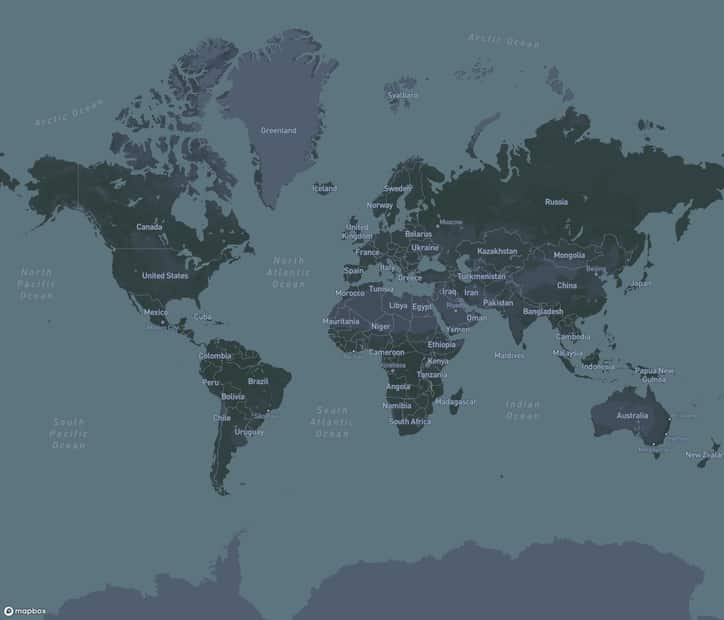
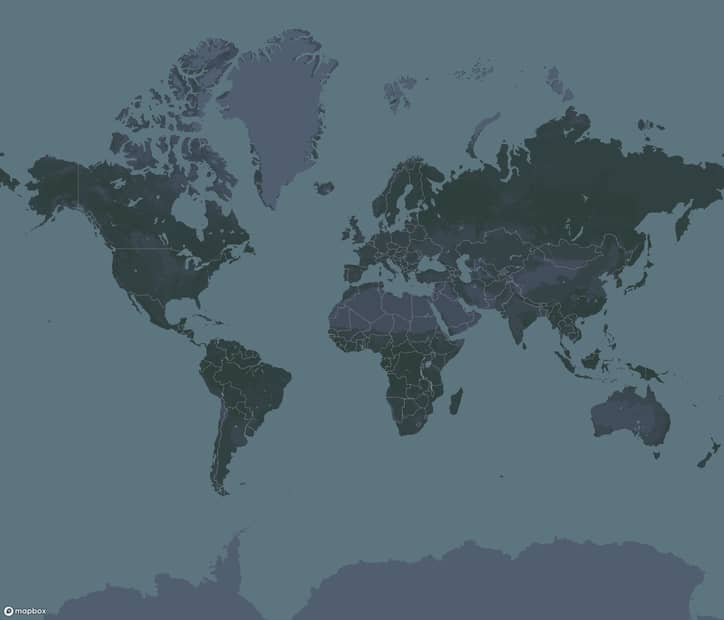
Liquid-glass loading state instead of a stretched low-res map
The loading picture was a half-resolution poster scaled up 2x, which
read as a mushy copy of the map. It is now:

- A label-free poster at twice the resolution (blurred place names only
  showed as grey smudges), under a light 2.5px blur, so it reads as the
  real map slightly out of focus
- A clear glass pane over it: bright rim highlights and a gentle
  specular sweep, no frost grain
- A centred liquid-glass "Loading map" pill: backdrop blur plus an SVG
  displacement filter that bends the map behind it (browsers without
  SVG backdrop filters get the blur only), with rim highlights and a
  gently bobbing plane
- On load the live map fades in beneath the glass, then the glass and
  pill lift; both end hidden, so popups and controls stay clickable

The map box moves into a .map-wrap wrapper that carries its margins and
the pill. Time to map-ready is unchanged (~1.5s in the throttled test).

Claude-Session: https://claude.ai/code/session_014WmuffgPwPaafD4mPaaY6j

diff --git a/index.html b/index.html
@@ -84,19 +84,111 @@
            map at any box size. Regenerate the images if the opening camera or
            the map style changes. */
         #map {
-            background: #75cff0 url(map-poster-light.jpg) center / 1448px 1240px no-repeat;
+            background: #75cff0;
+            --poster: url(map-poster-light.jpg);
         }
+        /* The poster, blurred. It overhangs the box by 60px on every side so
+           the blur has real image to sample at the edges (the map clips it to
+           its rounded corners); the overhang is symmetric, so the centre, and
+           with it the alignment, is unchanged. */
+        #map::before {
+            content: '';
+            position: absolute;
+            inset: -60px;
+            background: var(--poster) center / 1448px 1240px no-repeat;
+            filter: blur(2.5px) saturate(1.15);
+            pointer-events: none;
+            transition: visibility 0s linear 1s;
+        }
+        #map.map-ready::before { visibility: hidden; }
         #map .mapboxgl-canvas {
             opacity: 0;
-            transition: opacity .45s ease;
+            transition: opacity .5s ease;
         }
         #map.map-ready .mapboxgl-canvas { opacity: 1; }
+
+        /* Liquid glass over the poster while the map loads: clear rather than
+           frosted — no grain, vivid colour showing through — with a bright rim
+           where light catches the edge of the pane, and a slow specular sweep.
+           When the live map is ready it fades in underneath first, then the
+           glass lifts, so the map comes into focus instead of popping in. */
+        #map::after {
+            content: '';
+            position: absolute;
+            inset: 0;
+            border-radius: inherit;
+            pointer-events: none;
+            background:
+                linear-gradient(115deg, transparent 38%, rgba(255,255,255,.20) 49%, rgba(255,255,255,.05) 54%, transparent 62%) 0 0 / 260% 100% no-repeat,
+                radial-gradient(120% 80% at 12% 0%, rgba(255,255,255,.18), rgba(255,255,255,0) 55%);
+            box-shadow:
+                inset 1.5px 1.5px 0 rgba(255,255,255,.75),
+                inset -1px -1px 0 rgba(255,255,255,.35),
+                inset 0 0 36px rgba(255,255,255,.22);
+            animation: glass-sheen 3.2s cubic-bezier(.45,0,.2,1) infinite;
+            transition: opacity .7s ease .25s, visibility 0s linear 1s;
+        }
+        #map.map-ready::after {
+            opacity: 0;
+            visibility: hidden;
+            animation: none;
+        }
+        @keyframes glass-sheen {
+            from { background-position: 140% 0, 0 0; }
+            to   { background-position: -40% 0, 0 0; }
+        }
+
+        /* The liquid-glass "Loading map" pill. Layers: the refracting backdrop
+           (blur plus an SVG displacement filter, #lg-distort, that bends the
+           map behind it — browsers without SVG backdrop filters just get the
+           blur), a tint, the rim highlights, then the text. */
+        .map-wrap { position: relative; margin-top: -3.4rem; margin-bottom: 0.5rem; }
+        .map-loading {
+            position: absolute;
+            left: 50%;
+            top: 50%;
+            transform: translate(-50%, -50%);
+            display: inline-flex;
+            align-items: center;
+            border-radius: 999px;
+            overflow: hidden;
+            padding: 0.8rem 1.5rem;
+            font-weight: 650;
+            font-size: 0.95rem;
+            letter-spacing: 0.02em;
+            color: #0d2c50;
+            box-shadow: 0 8px 28px rgba(8, 30, 60, .22), 0 1px 3px rgba(8, 30, 60, .12);
+            pointer-events: none;
+            transition: opacity .45s ease, transform .6s cubic-bezier(.3,1.4,.5,1), visibility 0s linear .6s;
+        }
+        .map-loading > span { position: absolute; inset: 0; border-radius: inherit; }
+        .map-loading .lg-effect {
+            -webkit-backdrop-filter: blur(4px) saturate(1.9);
+            backdrop-filter: blur(4px) saturate(1.9);
+            filter: url(#lg-distort);
+        }
+        .map-loading .lg-tint { background: rgba(255, 255, 255, .30); }
+        .map-loading .lg-shine {
+            box-shadow:
+                inset 2px 2px 1px 0 rgba(255, 255, 255, .75),
+                inset -1px -1px 1px 1px rgba(255, 255, 255, .45),
+                inset 0 -8px 16px rgba(255, 255, 255, .12);
+        }
+        .map-loading .lg-text { position: relative; display: inline-flex; align-items: center; gap: .55rem; }
+        .map-loading .lg-plane { display: inline-block; animation: lg-bob 1.6s ease-in-out infinite; }
+        @keyframes lg-bob {
+            0%, 100% { transform: translateY(0) rotate(-6deg); }
+            50%      { transform: translateY(-3px) rotate(4deg); }
+        }
+        .map-wrap.map-ready .map-loading {
+            opacity: 0;
+            visibility: hidden;
+            transform: translate(-50%, -50%) scale(.9);
+        }
         #map {
             height: 65vh;
             min-height: 400px;
             width: 100%;
-            margin-top: -3.4rem;
-            margin-bottom: 0.5rem;
             border-radius: 18px;
             box-shadow: var(--shadow-lg);
             border: 4px solid rgba(255,255,255,0.85);
@@ -484,7 +576,8 @@
         /* --- Small screens --- */
         @media (max-width: 520px) {
             header { padding-bottom: 4.2rem; }
-            #map { height: 55vh; min-height: 320px; margin-top: -2.6rem; }
+            #map { height: 55vh; min-height: 320px; }
+            .map-wrap { margin-top: -2.6rem; }
             .mapboxgl-popup { max-width: 210px; }
             .container { padding: 0 0.75rem 1.5rem; }
         }
@@ -508,7 +601,25 @@
             }
             #map {
                 border-color: rgba(24,33,43,0.9);
-                background: #3b4f63 url(map-poster-dark.jpg) center / 1448px 1240px no-repeat;
+                background: #3b4f63;
+                --poster: url(map-poster-dark.jpg);
+            }
+            #map::after {
+                background:
+                    linear-gradient(115deg, transparent 35%, rgba(255,255,255,.12) 48%, rgba(255,255,255,.03) 54%, transparent 64%) 0 0 / 260% 100% no-repeat,
+                    radial-gradient(120% 80% at 12% 0%, rgba(255,255,255,.10), rgba(255,255,255,0) 55%);
+                box-shadow:
+                    inset 1.5px 1.5px 0 rgba(255,255,255,.30),
+                    inset -1px -1px 0 rgba(255,255,255,.12),
+                    inset 0 0 36px rgba(255,255,255,.07);
+            }
+            .map-loading { color: #eaf3fb; box-shadow: 0 8px 28px rgba(0,0,0,.45), 0 1px 3px rgba(0,0,0,.3); }
+            .map-loading .lg-tint { background: rgba(255, 255, 255, .08); }
+            .map-loading .lg-shine {
+                box-shadow:
+                    inset 2px 2px 1px 0 rgba(255, 255, 255, .28),
+                    inset -1px -1px 1px 1px rgba(255, 255, 255, .14),
+                    inset 0 -8px 16px rgba(255, 255, 255, .05);
             }
             .journal-card h2 { color: #7fb6e0; }
             .mapboxgl-popup-content { background: var(--card); color: var(--ink); }
@@ -528,7 +639,22 @@
         <p class="subtitle" id="subtitle">Places I've been, mapped.</p>
     </header>
     <div class="container">
-        <div id="map"></div>
+        <div class="map-wrap">
+            <div id="map"></div>
+            <div class="map-loading" aria-hidden="true">
+                <span class="lg-effect"></span><span class="lg-tint"></span><span class="lg-shine"></span>
+                <span class="lg-text"><span class="lg-plane">✈</span> Loading map</span>
+            </div>
+        </div>
+        <!-- liquid-glass refraction: a smooth, low-frequency displacement that
+             bends whatever is behind the loading pill, strongest at its edges -->
+        <svg width="0" height="0" style="position:absolute" aria-hidden="true" focusable="false">
+            <filter id="lg-distort" x="-10%" y="-10%" width="120%" height="120%" color-interpolation-filters="sRGB">
+                <feTurbulence type="fractalNoise" baseFrequency="0.008 0.012" numOctaves="2" seed="7" result="noise"/>
+                <feGaussianBlur in="noise" stdDeviation="2" result="soft"/>
+                <feDisplacementMap in="SourceGraphic" in2="soft" scale="46" xChannelSelector="R" yChannelSelector="G"/>
+            </filter>
+        </svg>
         <div class="filter-bar" id="filterBar"></div>
         <div class="place-grid" id="placeGrid"></div>
     </div>
@@ -679,6 +805,7 @@
         let selectedYear = 'all';
         if (typeof mapboxgl === 'undefined') {
             document.getElementById('map').textContent = 'Map could not be loaded. Check your network connection.';
+            document.querySelector('.map-wrap').classList.add('map-ready');
         } else {
             mapboxgl.accessToken = 'pk.eyJ1IjoiZmFueWl5YW5nMjMzIiwiYSI6ImNseG56dHp1dTA5cmQyanB4MDlyNXB5YjAifQ.dXU4lx12g2LDUhENBR_UGA';
             map = new mapboxgl.Map({
@@ -698,7 +825,10 @@
             window._map = map;
             // swap the poster for the live map once it has drawn the opening view
             // (tiles and labels); the fallback covers a slow or failed tile load
-            const reveal = () => document.getElementById('map').classList.add('map-ready');
+            const reveal = () => {
+                document.getElementById('map').classList.add('map-ready');
+                document.querySelector('.map-wrap').classList.add('map-ready');
+            };
             map.once('load', reveal);
             setTimeout(reveal, 8000);
             map.addControl(new mapboxgl.NavigationControl(), 'top-right');

diff --git a/README.md b/README.md
@@ -23,7 +23,7 @@ An interactive world map of the places I've been — photo markers, a flight-pat
 - 📊 **Stats bar** — destinations · countries · since first trip, computed from the data
 - ⌨ **Keyboard & screen-reader friendly** — cards are real buttons with focus rings, and animations respect `prefers-reduced-motion`
 - ⚡ **Fast** — the map style is fetched in parallel with the Mapbox library, markers and cards load small copies of the photos (~1 MB instead of 4.5 MB), there are no geocoding calls at load, and the photo grid renders even if the map CDN is down
-- 🖼 **No blank map on open** — the map box shows a pre-rendered picture of the opening view (`map-poster-light.jpg` / `map-poster-dark.jpg`, ~20 KB) from the first paint, and the live map fades in over it once it has drawn
+- 🖼 **No blank map on open** — the map box shows a pre-rendered, label-free picture of the opening view (`map-poster-light.jpg` / `map-poster-dark.jpg`, ~16–25 KB) under a liquid-glass pane with a “Loading map” pill from the first paint; the live map fades in and comes into focus once it has drawn
 - 🎞 **Smooth on high-refresh screens** — the plane is drawn on its own overlay every display frame (60/120/144 Hz) without repainting the map underneath
 
 ### Updating from the browser — no code editing
